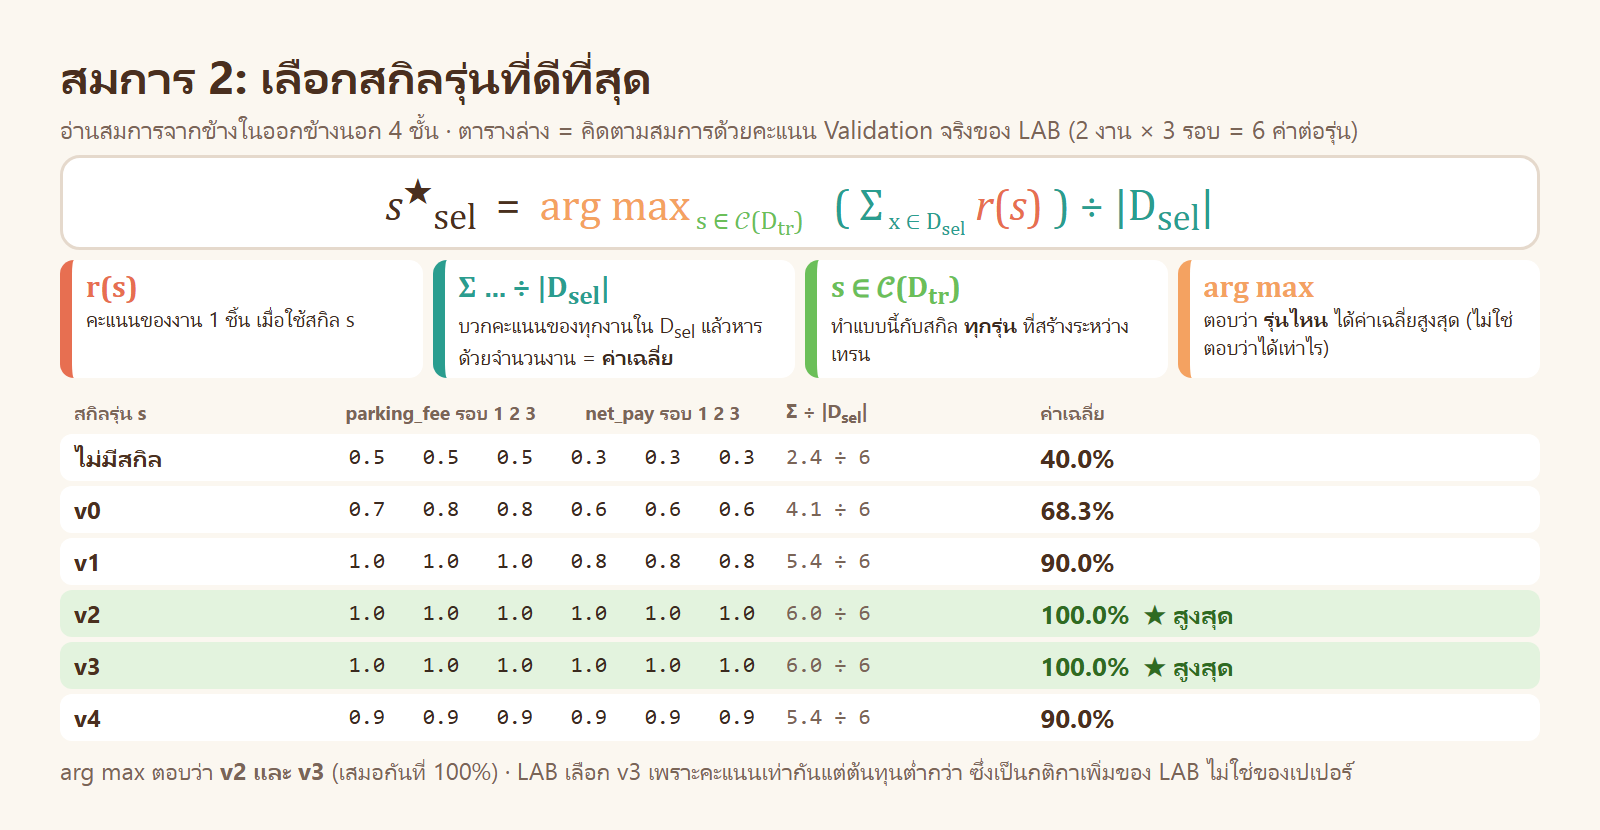
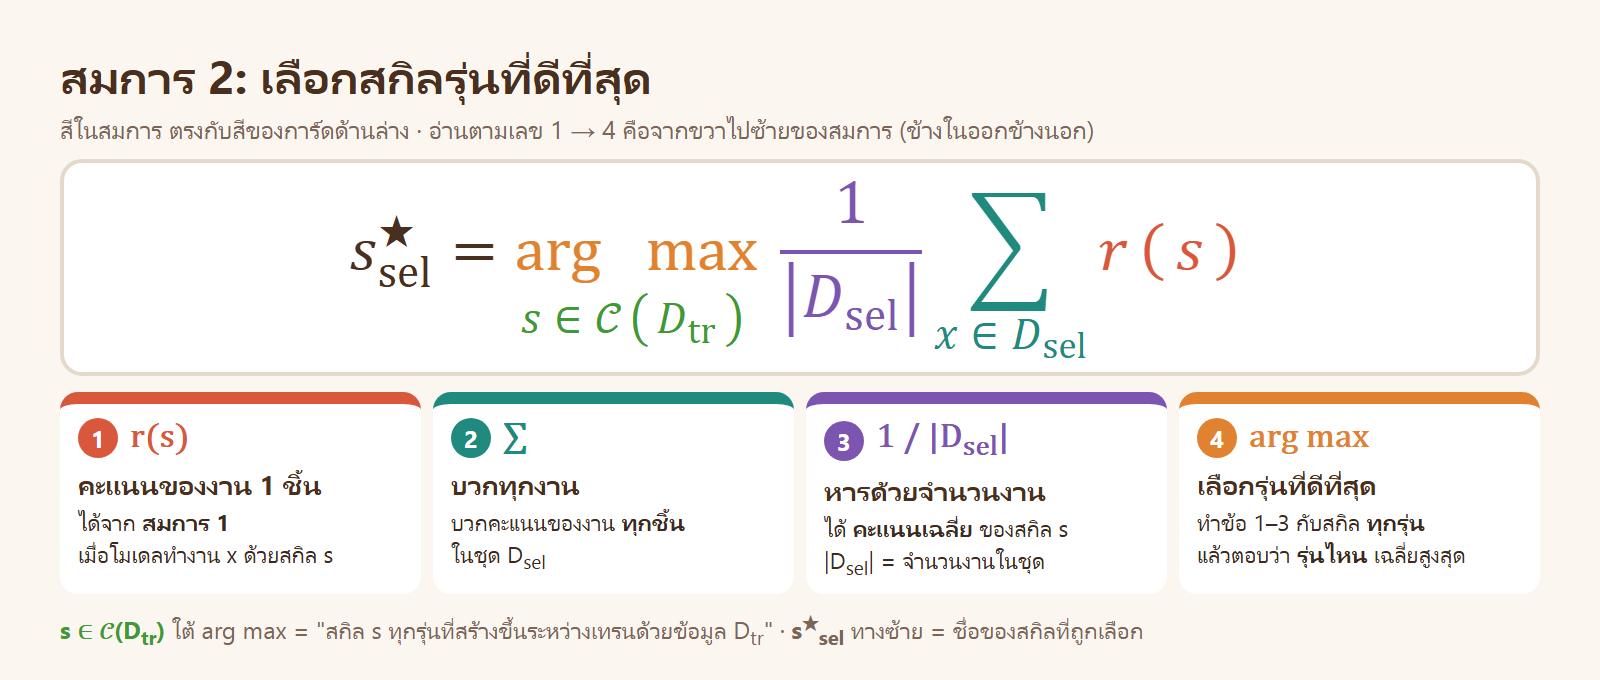
SkillOpt theory: redraw the equation figures and link equations 1-3
Equation 2 and 3 are now typeset with MathML at full size, with colour
matched callouts. A single grid figure (rows = skill versions, columns
= tasks) shows where each of the three equations lives, and section 5
opens with how the equations feed each other.

diff --git a/03_week03/05_Skill_Optimizer_Basic/01_theory/diagrams_eq.py b/03_week03/05_Skill_Optimizer_Basic/01_theory/diagrams_eq.py
@@ -1,0 +1,164 @@
+#!/usr/bin/env python3
+"""ภาพของส่วนที่ 5 (สมการ 1-3) · สมการเรียงพิมพ์ด้วย MathML ใน Chrome จึงคมและตรงตามเปเปอร์
+
+  python 01_theory/diagrams_eq.py            (รันบนเครื่อง จากโฟลเดอร์ของบท)
+
+คะแนน Validation ในภาพอ่านจาก results/runs/<รุ่น>/<งาน>-r<รอบ>/grade.json ไม่มีค่าที่พิมพ์เอง
+"""
+import json, os, sys
+HERE = os.path.dirname(os.path.abspath(__file__))
+ROOT = os.path.dirname(HERE)
+sys.path.insert(0, os.path.join(ROOT, "tools"))
+import charts
+from charts import shot
+
+charts.OUT = os.path.join(HERE, "img")
+MONO = "font-family:Consolas,monospace"
+MATH = "font-family:Cambria Math,STIX Two Math,serif"
+INK, MUTE, LINE = "#4A2F1F", "#7A6557", "#E5D9CC"
+TEAL, ORANGE, GREEN, RED, BROWN, PURPLE = "#1F8A7D", "#E0822F", "#3F9A35", "#D9573A", "#6F4E37", "#7B55B0"
+VERS = [("noskill", "ไม่มีสกิล"), ("v0", "v0"), ("v1", "v1"), ("v2", "v2"), ("v3", "v3"), ("v4", "v4")]
+VAL = ["v1-parking-fee", "v2-net-pay"]
+
+
+def val_scores():
+    out = {}
+    for lab, _ in VERS:
+        out[lab] = [json.load(open(os.path.join(ROOT, "results", "runs", lab, "%s-r%d" % (t, r), "grade.json"), encoding="utf-8"))["score"]
+                    for t in VAL for r in (1, 2, 3)]
+    return out
+
+
+def badge(n, color, size=40):
+    return "<span style='display:inline-flex;align-items:center;justify-content:center;width:%dpx;height:%dpx;border-radius:50%%;background:%s;color:#fff;font-size:%dpx;font-weight:800;flex:none'>%s</span>" % (
+        size, size, color, int(size * 0.6), n)
+
+
+def eqbox(mathml, size=62):
+    return "<div style='background:#fff;border:4px solid %s;border-radius:22px;padding:18px 10px 14px;text-align:center'><math display='block' style='%s;font-size:%dpx;color:%s'>%s</math></div>" % (
+        LINE, MATH, size, INK, mathml)
+
+
+EQ2 = """<msubsup><mi>s</mi><mtext>sel</mtext><mo>★</mo></msubsup><mo>=</mo>
+<munder><mrow style='color:%s'><mi mathvariant='normal'>arg</mi><mo>&#x2009;</mo><mi mathvariant='normal'>max</mi></mrow>
+  <mrow style='color:%s'><mi>s</mi><mo>∈</mo><mi>𝒞</mi><mo>(</mo><msub><mi>D</mi><mtext>tr</mtext></msub><mo>)</mo></mrow></munder>
+<mspace width='0.35em'/>
+<mfrac style='color:%s'><mn>1</mn><mrow><mo>|</mo><msub><mi>D</mi><mtext>sel</mtext></msub><mo>|</mo></mrow></mfrac>
+<munder style='color:%s'><mo>∑</mo><mrow><mi>x</mi><mo>∈</mo><msub><mi>D</mi><mtext>sel</mtext></msub></mrow></munder>
+<mrow style='color:%s'><mi>r</mi><mo>(</mo><mi>s</mi><mo>)</mo></mrow>""" % (ORANGE, GREEN, PURPLE, TEAL, RED)
+
+EQ3 = """<mtext>Test</mtext><mo>(</mo><msubsup style='color:%s'><mi>s</mi><mtext>sel</mtext><mo>★</mo></msubsup><mo>)</mo><mo>=</mo>
+<mfrac style='color:%s'><mn>1</mn><mrow><mo>|</mo><msub><mi>D</mi><mtext>test</mtext></msub><mo>|</mo></mrow></mfrac>
+<munder style='color:%s'><mo>∑</mo><mrow><mi>x</mi><mo>∈</mo><msub><mi>D</mi><mtext>test</mtext></msub></mrow></munder>
+<mrow style='color:%s'><mi>r</mi><mo>(</mo><msubsup style='color:%s'><mi>s</mi><mtext>sel</mtext><mo>★</mo></msubsup><mo>)</mo></mrow>""" % (ORANGE, PURPLE, TEAL, RED, ORANGE)
+
+
+def part(n, color, sym, title, text):
+    return """<div style='flex:1;background:#fff;border-radius:18px;padding:14px 18px;border-top:12px solid %s'>
+      <div style='display:flex;align-items:center;gap:12px'>%s<span style='%s;font-size:34px;color:%s;font-weight:700'>%s</span></div>
+      <div style='font-size:27px;font-weight:800;color:%s;margin:8px 0 4px'>%s</div>
+      <div style='font-size:23px;line-height:1.4'>%s</div></div>""" % (color, badge(n, color), MATH, color, sym, INK, title, text)
+
+
+def eq2_anatomy():
+    parts = "".join([
+        part(1, RED, "r(s)", "คะแนนของงาน 1 ชิ้น", "ได้จาก <b>สมการ 1</b><br>เมื่อโมเดลทำงาน x ด้วยสกิล s"),
+        part(2, TEAL, "∑ x ∈ D<sub>sel</sub>", "บวกทุกงาน", "บวกคะแนนของงาน <b>ทุกชิ้น</b><br>ในชุด D<sub>sel</sub>"),
+        part(3, PURPLE, "1 / |D<sub>sel</sub>|", "หารด้วยจำนวนงาน", "ได้ <b>คะแนนเฉลี่ย</b> ของสกิล s<br>|D<sub>sel</sub>| = จำนวนงานในชุด"),
+        part(4, ORANGE, "arg max", "เลือกรุ่นที่ดีที่สุด", "ทำข้อ 1–3 กับสกิล <b>ทุกรุ่น</b><br>แล้วตอบว่า <b>รุ่นไหน</b> เฉลี่ยสูงสุด")])
+    body = """<h1>สมการ 2: เลือกสกิลรุ่นที่ดีที่สุด</h1>
+    <div class='sub' style='margin-bottom:14px'>สีในสมการ ตรงกับสีของการ์ดด้านล่าง · อ่านตามเลข 1 → 4 คือจากขวาไปซ้ายของสมการ (ข้างในออกข้างนอก)</div>
+    %s
+    <div style='display:flex;gap:12px;margin-top:16px'>%s</div>
+    <div class='note' style='margin-top:14px'><span style='color:%s;font-weight:800'>s ∈ 𝒞(D<sub>tr</sub>)</span> ใต้ arg max = "สกิล s ทุกรุ่นที่สร้างขึ้นระหว่างเทรนด้วยข้อมูล D<sub>tr</sub>" ·
+      <b>s<sup>★</sup><sub>sel</sub></b> ทางซ้าย = ชื่อของสกิลที่ถูกเลือก</div>""" % (eqbox(EQ2), "".join([
+        part(1, RED, "r(s)", "คะแนนของงาน 1 ชิ้น", "ได้จาก <b>สมการ 1</b><br>เมื่อโมเดลทำงาน x ด้วยสกิล s"),
+        part(2, TEAL, "∑", "บวกทุกงาน", "บวกคะแนนของงาน <b>ทุกชิ้น</b><br>ในชุด D<sub>sel</sub>"),
+        part(3, PURPLE, "1 / |D<sub>sel</sub>|", "หารด้วยจำนวนงาน", "ได้ <b>คะแนนเฉลี่ย</b> ของสกิล s<br>|D<sub>sel</sub>| = จำนวนงานในชุด"),
+        part(4, ORANGE, "arg max", "เลือกรุ่นที่ดีที่สุด", "ทำข้อ 1–3 กับสกิล <b>ทุกรุ่น</b><br>แล้วตอบว่า <b>รุ่นไหน</b> เฉลี่ยสูงสุด")]), GREEN)
+    shot("t07-eq2", body, 680)
+
+
+def eq2_worked():
+    V = val_scores()
+    v0 = V["v0"]
+    chips = "".join("<span style='%s;font-size:26px;font-weight:700;background:#FBE9E4;color:%s;border-radius:10px;padding:4px 8px'>%.1f</span>" % (MONO, RED, x) for x in v0)
+    def card(n, color, title, inner):
+        return """<div style='flex:1;background:#fff;border-radius:18px;padding:12px 18px;border-top:12px solid %s'>
+          <div style='display:flex;align-items:center;gap:12px;font-size:26px;font-weight:800;color:%s'>%s%s</div>%s</div>""" % (color, INK, badge(n, color), title, inner)
+    c1 = card(1, RED, "คะแนนของงานแต่ละชิ้น", "<div style='font-size:21px;color:%s;margin:8px 0 6px'>parking_fee 3 รอบ · net_pay 3 รอบ</div><div style='display:flex;gap:6px'>%s</div>" % (MUTE, chips))
+    c2 = card(2, TEAL, "บวกทุกงาน", "<div style='%s;font-size:21px;margin-top:14px;white-space:nowrap'>%s</div><div style='%s;font-size:40px;font-weight:800;color:%s'>= %.1f</div>" % (
+        MONO, " + ".join("%.1f" % x for x in v0), MONO, TEAL, sum(v0)))
+    c3 = card(3, PURPLE, "หารด้วยจำนวนงาน", "<div style='%s;font-size:25px;margin-top:14px'>%.1f ÷ 6</div><div style='%s;font-size:40px;font-weight:800;color:%s'>= %.1f%%</div>" % (
+        MONO, sum(v0), MONO, PURPLE, sum(v0) / 6 * 100))
+    means = [(nm, sum(V[lab]) / 6 * 100) for lab, nm in VERS]
+    best = max(m for _, m in means)
+    bars = ""
+    for nm, m in means:
+        top = abs(m - best) < 1e-9
+        bars += """<div style='flex:1;display:flex;flex-direction:column;align-items:center;justify-content:flex-end'>
+          <div style='font-size:28px;font-weight:800;color:%s'>%s%.1f%%</div>
+          <div style='width:120px;height:%dpx;background:%s;border-radius:12px 12px 0 0'></div>
+          <div style='font-size:26px;font-weight:800;color:%s;margin-top:6px'>%s</div></div>""" % (
+            ORANGE if top else INK, "★ " if top else "", m, int(m * 1.9), ORANGE if top else "#D9CFC3", INK, nm)
+    c4 = """<div style='background:#fff;border-radius:18px;padding:12px 18px 14px;border-top:12px solid %s;margin-top:12px'>
+      <div style='display:flex;align-items:center;gap:12px;font-size:26px;font-weight:800;color:%s'>%sทำข้อ 1–3 กับสกิลทุกรุ่น แล้วเลือกรุ่นที่เฉลี่ยสูงสุด (arg max)</div>
+      <div style='display:flex;gap:8px;align-items:flex-end;height:270px;margin-top:6px'>%s</div></div>""" % (ORANGE, INK, badge(4, ORANGE), bars)
+    body = """<h1>สมการ 2 คิดตามทีละขั้น ด้วยคะแนนจริงของ LAB</h1>
+    <div class='sub' style='margin-bottom:12px'>ขั้น 1–3 คิดให้ดูกับสกิลรุ่น <b>v0</b> · D<sub>sel</sub> ของ LAB = Validation Set (2 งาน × 3 รอบ = 6 ค่า) · ขั้น 4 เทียบทุกรุ่น</div>
+    <div style='display:flex;gap:12px'>%s%s%s</div>%s
+    <div class='note' style='margin-top:10px'>arg max ตอบว่า <b>v2 และ v3</b> (เสมอกัน) · ตามกติกาของเปเปอร์ คะแนนเท่ากันไม่รับรุ่นใหม่ จึงได้ v2 · LAB รับ v3 เพราะต้นทุนต่ำกว่า</div>""" % (c1, c2, c3, c4)
+    shot("t07b-eq2-worked", body, 765)
+
+
+def eq3_anatomy():
+    parts = "".join([
+        part(1, ORANGE, "s<sup>★</sup><sub>sel</sub>", "สกิลที่เลือกแล้ว", "คำตอบของ <b>สมการ 2</b><br>ใช้รุ่นนี้ <b>รุ่นเดียว</b>"),
+        part(2, RED, "r( s<sup>★</sup><sub>sel</sub> )", "คะแนนของงาน 1 ชิ้น", "ได้จาก <b>สมการ 1</b><br>แต่งาน x มาจาก D<sub>test</sub>"),
+        part(3, TEAL, "∑ และ 1 / |D<sub>test</sub>|", "เฉลี่ยทุกงาน", "วิธีเฉลี่ยเหมือนสมการ 2<br>เปลี่ยนชุดข้อมูลเป็น <b>D<sub>test</sub></b>")])
+    body = """<h1>สมการ 3: รายงานผลของสกิลที่เลือก</h1>
+    <div class='sub' style='margin-bottom:14px'>ไม่มี arg max เพราะไม่ได้เลือกอะไรแล้ว · เป็นการวัดอย่างเดียว บนข้อมูลที่ไม่เคยถูกใช้มาก่อน</div>
+    %s<div style='display:flex;gap:12px;margin-top:16px'>%s</div>""" % (eqbox(EQ3), parts)
+    shot("t07c-eq3", body, 700)
+
+
+def grid():
+    """ตารางเดียวที่เห็นทั้ง 3 สมการ: แถว = สกิล 1 รุ่น · คอลัมน์ = งาน 1 ชิ้น"""
+    V = val_scores()
+    means = {lab: sum(v) / 6 * 100 for lab, v in V.items()}
+    best = max(means.values())
+    th = "font-size:19px;color:%s;font-weight:700;padding:2px 0;text-align:center" % MUTE
+    rows = ""
+    for lab, nm in VERS:
+        top = abs(means[lab] - best) < 1e-9
+        cells = "".join("<td style='width:78px;text-align:center'><span style='display:inline-block;width:64px;padding:7px 0;border-radius:10px;background:#FBE9E4;color:%s;%s;font-size:23px;font-weight:700'>%.1f</span></td>" % (RED, MONO, x) for x in V[lab])
+        tcell = "".join("<td style='width:78px;text-align:center'><span style='display:inline-block;width:64px;padding:7px 0;border-radius:10px;background:%s;color:%s;%s;font-size:23px;font-weight:700'>%s</span></td>" % (
+            ("#FFF1DD" if top else "#F3EDE4"), (ORANGE if top else "#C9BDB0"), MONO, "?" if top else "–") for _ in range(3))
+        rows += """<tr><td style='font-size:25px;font-weight:800;color:%s;padding:5px 14px 5px 6px;white-space:nowrap'>%s%s</td>%s
+          <td style='padding-left:14px'><span style='display:inline-block;min-width:140px;padding:7px 14px;border-radius:10px;background:%s;color:%s;font-size:25px;font-weight:800;text-align:center'>%.1f%%</span></td>
+          <td style='width:26px'></td>%s
+          <td style='padding-left:14px'><span style='display:inline-block;min-width:120px;padding:7px 14px;border-radius:10px;background:%s;color:%s;font-size:23px;font-weight:800;text-align:center'>%s</span></td></tr>""" % (
+            INK, "★ " if top else "", nm, cells, ("#FFE3C2" if top else "#EFE6FA"), (ORANGE if top else PURPLE), means[lab], tcell,
+            ("#FFE3C2" if top else "#F3EDE4"), (ORANGE if top else "#C9BDB0"), "ผลที่รายงาน" if top else "ไม่วัด")
+    table = """<table style='border-collapse:separate;border-spacing:0 3px'>
+      <tr><th></th><th colspan='6' style='%s;background:#E6F3F1;border-radius:10px;color:%s;font-size:22px;padding:6px 0'>D<sub>sel</sub> · งาน 6 ชิ้น (LAB: parking_fee 3 รอบ · net_pay 3 รอบ)</th>
+          <th style='%s'>เฉลี่ยบน D<sub>sel</sub></th><th></th>
+          <th colspan='3' style='%s;background:#FBE9E4;border-radius:10px;color:%s;font-size:22px;padding:6px 0'>D<sub>test</sub> 🔒</th><th style='%s'>เฉลี่ยบน D<sub>test</sub></th></tr>
+      %s</table>""" % (th, TEAL, th, th, RED, th, rows)
+    def leg(n, color, t):
+        return "<div style='flex:1;display:flex;gap:12px;align-items:flex-start;background:#fff;border-radius:16px;padding:10px 14px;border-left:10px solid %s'>%s<div style='font-size:22px;line-height:1.35'>%s</div></div>" % (color, badge(n, color, 36), t)
+    legend = "".join([
+        leg(1, RED, "<b>สมการ 1</b> = <b>1 ช่อง</b><br>คะแนน r ของงาน 1 ชิ้น ด้วยสกิล 1 รุ่น"),
+        leg(2, PURPLE, "<b>สมการ 2 (ส่วนใน)</b> = <b>เฉลี่ย 1 แถว</b><br>คะแนนเฉลี่ยของสกิลรุ่นนั้นบน D<sub>sel</sub>"),
+        leg(3, ORANGE, "<b>สมการ 2 (arg max)</b> = <b>เลือกแถว</b><br>แถวที่เฉลี่ยสูงสุด คือ s<sup>★</sup><sub>sel</sub>"),
+        leg(4, BROWN, "<b>สมการ 3</b> = <b>เฉลี่ยแถวที่เลือก</b> บน D<sub>test</sub><br>ตัวเลขที่รายงาน")])
+    body = """<h1>ตารางเดียว เห็นทั้ง 3 สมการ</h1>
+    <div class='sub' style='margin-bottom:10px'>แถว = สกิล 1 รุ่น · คอลัมน์ = งาน 1 ชิ้น · ตัวเลขใน D<sub>sel</sub> เป็นคะแนน Validation จริงของ LAB · LAB ไม่มี D<sub>test</sub> ช่องนั้นจึงเป็น "?"</div>
+    <div style='background:#fff;border:3px solid %s;border-radius:20px;padding:12px 16px;display:flex;justify-content:center'>%s</div>
+    <div style='display:flex;gap:10px;margin-top:12px'>%s</div>""" % (LINE, table, legend)
+    shot("t05b-eq-grid", body, 770)
+
+
+if __name__ == "__main__":
+    for w in sys.argv[1:] or ["grid", "eq2_anatomy", "eq2_worked", "eq3_anatomy"]:
+        globals()[w]()

diff --git a/03_week03/05_Skill_Optimizer_Basic/01_theory/diagrams.py b/03_week03/05_Skill_Optimizer_Basic/01_theory/diagrams.py
@@ -175,38 +175,7 @@ def eq1():
     shot("t06-eq1", body, 600)
 
 
-def eq2():
-    V = [("ไม่มีสกิล", [0.5, 0.5, 0.5, 0.3, 0.3, 0.3]), ("v0", [0.7, 0.8, 0.8, 0.6, 0.6, 0.6]), ("v1", [1.0, 1.0, 1.0, 0.8, 0.8, 0.8]),
-         ("v2", [1.0] * 6), ("v3", [1.0] * 6), ("v4", [0.9] * 6)]
-    best = max(sum(v) / 6 for _, v in V)
-    rows = ""
-    for name, v in V:
-        m = sum(v) / 6
-        top = abs(m - best) < 1e-9
-        cells = "".join("<td style='padding:6px 0;width:74px;text-align:center;%s;font-size:22px'>%.1f</td>" % (MONO, x) for x in v)
-        rows += """<tr style='background:%s'><td style='padding:6px 14px;font-size:24px;font-weight:800;color:%s;border-radius:12px 0 0 12px'>%s</td>%s
-          <td style='padding:6px 12px;font-size:22px;%s;color:%s'>%.1f ÷ 6</td>
-          <td style='padding:6px 14px;font-size:26px;font-weight:800;color:%s;border-radius:0 12px 12px 0'>%.1f%%%s</td></tr>""" % (
-            "#E3F3DE" if top else "#fff", INK, name, cells, MONO, MUTE, sum(v), "#2F6B22" if top else INK, m * 100, " &nbsp;★ สูงสุด" if top else "")
-    part = lambda c, t, d: """<div style='flex:1;border-radius:14px;padding:8px 14px;background:#fff;border-left:12px solid %s'>
-        <div style='font-size:30px;font-family:Cambria,Georgia,serif;color:%s;font-weight:800'>%s</div><div style='font-size:21px'>%s</div></div>""" % (c, c, t, d)
-    parts = "".join([part(RED, "r(s)", "คะแนนของงาน 1 ชิ้น เมื่อใช้สกิล s"),
-                     part(TEAL, "Σ … ÷ |D<sub>sel</sub>|", "บวกคะแนนของทุกงานใน D<sub>sel</sub> แล้วหารด้วยจำนวนงาน = <b>ค่าเฉลี่ย</b>"),
-                     part(GREEN, "s ∈ 𝒞(D<sub>tr</sub>)", "ทำแบบนี้กับสกิล <b>ทุกรุ่น</b> ที่สร้างระหว่างเทรน"),
-                     part(ORANGE, "arg max", "ตอบว่า <b>รุ่นไหน</b> ได้ค่าเฉลี่ยสูงสุด (ไม่ใช่ตอบว่าได้เท่าไร)")])
-    th = "padding:2px 0;font-size:19px;color:%s;font-weight:700;text-align:center" % MUTE
-    body = """<h1>สมการ 2: เลือกสกิลรุ่นที่ดีที่สุด</h1>
-    <div class='sub' style='margin-bottom:10px'>อ่านสมการจากข้างในออกข้างนอก 4 ชั้น · ตารางล่าง = คิดตามสมการด้วยคะแนน Validation จริงของ LAB (2 งาน × 3 รอบ = 6 ค่าต่อรุ่น)</div>
-    <div style='text-align:center;font-size:44px;font-family:Cambria,Georgia,serif;color:%s;background:#fff;border:3px solid %s;border-radius:20px;padding:6px;margin-bottom:10px'>
-      <i>s</i><sup>★</sup><sub>sel</sub> &nbsp;=&nbsp; <span style='color:%s'>arg max</span><sub style='color:%s;font-size:26px'> s ∈ 𝒞(D<sub>tr</sub>)</sub> &nbsp;
-      <span style='color:%s'>( Σ<sub style='font-size:24px'> x ∈ D<sub>sel</sub></sub></span> <span style='color:%s'><i>r</i>(<i>s</i>)</span> <span style='color:%s'>) ÷ |D<sub>sel</sub>|</span></div>
-    <div style='display:flex;gap:10px;margin-bottom:12px'>%s</div>
-    <table style='border-collapse:separate;border-spacing:0 5px;width:100%%'>
-      <tr><th style='%s;text-align:left;padding-left:14px'>สกิลรุ่น s</th><th style='%s' colspan='3'>parking_fee รอบ 1 2 3</th><th style='%s' colspan='3'>net_pay รอบ 1 2 3</th>
-          <th style='%s;text-align:left;padding-left:12px'>Σ ÷ |D<sub>sel</sub>|</th><th style='%s;text-align:left;padding-left:14px'>ค่าเฉลี่ย</th></tr>%s</table>
-    <div class='note' style='margin-top:8px'>arg max ตอบว่า <b>v2 และ v3</b> (เสมอกันที่ 100%%) · LAB เลือก v3 เพราะคะแนนเท่ากันแต่ต้นทุนต่ำกว่า ซึ่งเป็นกติกาเพิ่มของ LAB ไม่ใช่ของเปเปอร์</div>""" % (
-        INK, LINE, ORANGE, GREEN, TEAL, RED, TEAL, parts, th, th, th, th, th, rows)
-    shot("t07-eq2", body, 830)
+# สมการ 2 และ 3 และตารางที่เชื่อมทั้ง 3 สมการ วาดใน diagrams_eq.py (ใช้ MathML)
 
 
 def edits():
@@ -367,6 +336,6 @@ def timeline():
 
 
 if __name__ == "__main__":
-    for w in sys.argv[1:] or ["mapping", "algorithm", "compare", "gd_step", "eq_overview", "eq1", "eq2", "edits", "gate_timeline",
+    for w in sys.argv[1:] or ["mapping", "algorithm", "compare", "gd_step", "eq_overview", "eq1", "edits", "gate_timeline",
                               "reflection_example", "three_way", "skill_anatomy", "timeline"]:
         globals()[w]()
